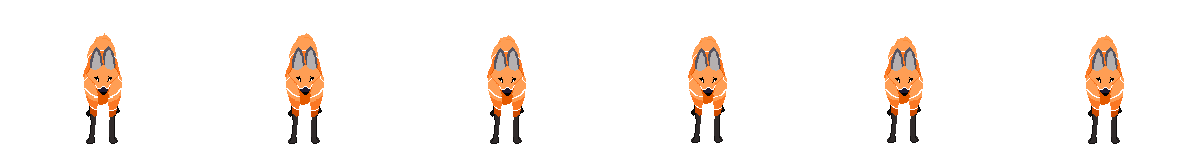
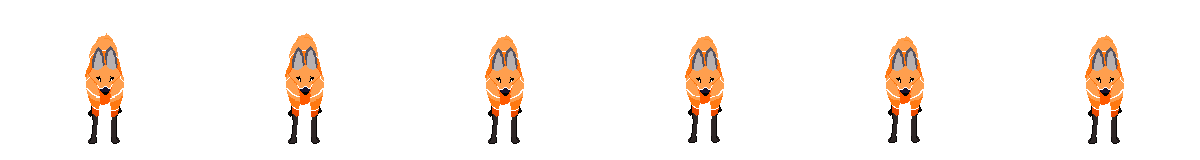
Sprites update.

diff --git a/src/components/Yawara.cpp b/src/components/Yawara.cpp
@@ -25,8 +25,8 @@
 #define YWR_DGE_CD		0.5
 #define YWR_DGE_ACT		0.2
 
-#define YWR_DGE 		"assets/penguin/img/dash.png"
-#define YWR_DGE_FRAME 	4
+#define YWR_DGE 		"assets/img/yawara/yawara_dash.png"
+#define YWR_DGE_FRAME 	5
 #define YWR_DGE_TIME	0.04
 
 #define YWR_SIT_GO		5
